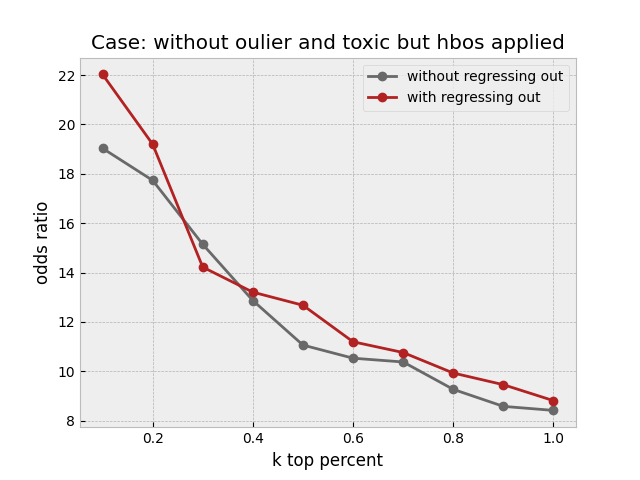
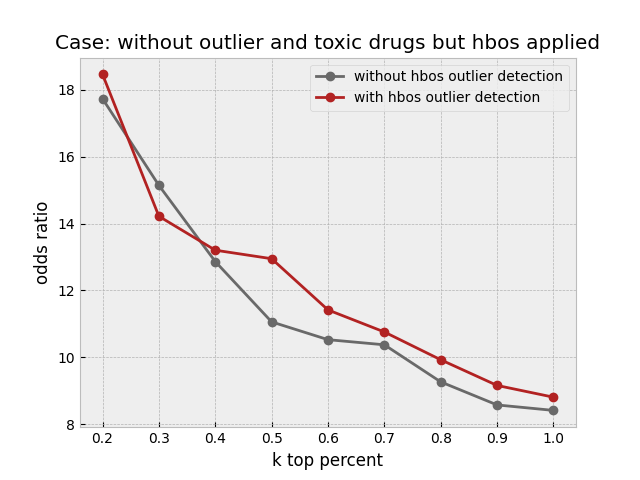
update plots

diff --git a/create_figure.py b/create_figure.py
@@ -1,6 +1,6 @@
 import matplotlib.pyplot as plt
 plt.style.use('bmh')
-k = [0.1,0.2,0.3,0.4,0.5,0.6, 0.7,0.8,0.9,1]
+k = [0.2,0.3,0.4,0.5,0.6, 0.7,0.8,0.9,1]
 
 simple = [8.637380350240969, 5.919063953102612, 4.719596794833262, 4.065512002301901, 3.6781240436003153, 3.290452155292344, 3.1658011431060067, 2.985483737084289, 2.8362326916350162, 2.6648148797080506, 1.9760097314088085, 1.7896712599610547, 1.6727411108446557, 1.6264975472333334]
 simple_regress = [9.409712612166645, 6.2860447818658, 5.019241750407726, 4.243313053954107, 3.6957863782693234, 3.3490154422750833, 3.115631587673701, 2.9197353899539635, 2.709845228887418, 2.629832706389391, 2.1301432158944413, 1.8819253679757508, 1.7861383899538412, 1.694735649352968]
@@ -12,24 +12,33 @@ remove_outlier_remove_toxic = [16.200728693235174, 13.5824911285034, 12.86676839
 remove_outlier_remove_toxic_regress = [22.028520357497516, 15.614109468937876, 13.312842712842713, 12.19348884144203, 11.060095399639188, 10.091030414566816, 9.620453237033548, 9.102458516349438, 9.01246491471051, 8.412760097919216, 6.466871619712499, 5.149076110709092, 4.487521022774029, 4.316097804073756]
 
 remove_outlier_remove_toxic_hbos = [19.03409573578057, 17.73440450660948, 15.142358159460665, 12.864679610446002, 11.060095399639188, 10.528130460104833, 10.3748425898164, 9.265801069662619, 8.576103746179028, 8.412760097919216, 6.399401142297976, 5.28659662093853, 4.80703631641932, 4.082853841734222]
-remove_outlier_remove_toxic_hbos_regress = [22.028520357497516, 19.199792093038365, 14.21844021259226, 13.204271406861157, 12.673919027124413, 11.193443616837, 10.758070694388287, 9.927180342553553, 9.454823416242958, 8.808000207003877, 6.73894695241979, 5.425330724423318, 4.699632259010011, 4.434667721637095]
+# remove_outlier_remove_toxic_hbos_regress = [22.028520357497516, 19.199792093038365, 14.21844021259226, 13.204271406861157, 12.673919027124413, 11.193443616837, 10.758070694388287, 9.927180342553553, 9.454823416242958, 8.808000207003877, 6.73894695241979, 5.425330724423318, 4.699632259010011, 4.434667721637095]
+
+remove_outlier_remove_toxic_hbos_regress = [20.510377506265666, 18.461777072692566, 14.21844021259226, 13.204271406861157, 12.94924157395062, 11.417827557320592, 10.758070694388287, 9.927180342553553, 9.159246706495098, 8.808000207003877, 6.73894695241979, 5.425330724423318, 4.843039864444453, 4.55456189193363]
+
+
 dae350200 = [1.985369469240437, 0.9755937755937756, 1.981955975158127, 1.9802590926919956, 2.189775165230631, 2.3279284361963555, 2.432225087837333, 3.173582295988935, 3.2878298909925414, 2.943687553746997, 3.3445043288471887, 3.1833131444441163, 3.160173913994807, 3.0939570060913857]
 mixup = [0.0, 2.486560008618832, 1.981955975158127, 1.4741914494175876, 1.9843701156611442, 1.9841298097411249, 1.840944546872784, 1.7313179009101518, 1.8764242853290183, 1.7852654103933316, 2.0656551849826865, 1.8143792670093564, 1.7184452844488332, 1.7996276305223873]
-# plt.plot(k,remove_outlier_remove_toxic[:-4], marker = 'o', label ='without regressing out', color = 'dimgray')
-# plt.plot(k,remove_outlier_remove_toxic_regress[:-4],marker = 'o' ,label ='with regressing out', color ='firebrick' )
+
+outlier_before_regress = [20.510377506265666, 18.461777072692566, 14.21844021259226, 13.204271406861157, 12.94924157395062, 11.417827557320592, 10.758070694388287, 9.927180342553553, 9.159246706495098, 8.808000207003877, 6.73894695241979, 5.425330724423318, 4.843039864444453, 4.55456189193363]
+outlier_005 = [23.590228896888938, 16.310768784340443, 15.142358159460665, 12.527760788311246, 11.85892841664706, 11.193443616837, 10.3748425898164, 10.094550195244155, 9.454823416242958, 8.940883651775305, 6.60246891279778, 5.28659662093853, 4.664031881611447, 4.37521844700198]
+outlier_02 = [22.028520357497516, 17.73440450660948, 15.142358159460665, 14.239350567465321, 12.40043588522354, 11.87056980003621, 10.758070694388287, 10.094550195244155, 9.454823416242958, 9.208372613424364, 6.945330327823232, 5.612220458048973, 4.9153524688386305, 4.6453633896260556]
+outlier_015 = [19.03409573578057, 17.01746860861166, 14.678079496261315, 14.239350567465321, 12.673919027124413, 11.643533195020748, 10.951215088219708, 10.094550195244155, 9.159246706495098, 8.808000207003877, 6.670597415129759, 5.471847416652611, 4.9153524688386305, 4.61501170941297]
+
+plt.plot(k,remove_outlier_remove_toxic_hbos[1:-4], marker = 'o', label ='without hbos outlier detection', color = 'dimgray')
+plt.plot(k,remove_outlier_remove_toxic_hbos_regress[1:-4],marker = 'o' ,label ='with hbos outlier detection', color ='firebrick' )
+plt.xlabel('k top percent')
+plt.ylabel('odds ratio')
+plt.legend()
+# plt.show()
+plt.title('Case: without outlier and toxic drugs but hbos applied')
+plt.savefig('figures/plots/remove_outlier_toxic_hbos_vs_remove_outlier_toxic_hbosregress.png')
+
+# plt.plot(k,mixup[:-4], marker = 'o', color = 'firebrick')
 # plt.xlabel('k top percent')
 # plt.ylabel('odds ratio')
 # # plt.title('title')
 # plt.legend()
-# # plt.show()
-# plt.title('Case: without oulier and toxic drugs')
-# plt.savefig('figures/plots/remove_outlier_toxic_vs_remove_outlier_toxicregress.png')
-
-plt.plot(k,mixup[:-4], marker = 'o', color = 'firebrick')
-plt.xlabel('k top percent')
-plt.ylabel('odds ratio')
-# plt.title('title')
-plt.legend()
 # plt.show()
-plt.title('Case : Mixup Technique')
-plt.savefig('figures/plots/mixup.png')
+# plt.title('Case : Mixup Technique')
+# plt.savefig('figures/plots/mixup.png')

diff --git a/final_find_representation.py b/final_find_representation.py
@@ -56,7 +56,15 @@ for f in files:
   data['plate'] = f
   data = data[data['Metadata_broad_sample'].isin(drugs)]
   data = data[data.columns.intersection(selected_cols)]
-  
+
+  ######### OUTLIER DETECTION
+  X = pd.read_csv('outlier_without_regress/'+f)
+  print(data.shape, X.shape)
+  data['outlier'] = list(X['outlier'])
+  data = data[data['outlier'] == 0]
+  del data['outlier']
+  #################
+
   ###### REGRESS OUT
   cell_area_col = list(data['Cells_AreaShape_Area'])
   cell_area = np.array(cell_area_col).reshape(-1,1)
@@ -72,13 +80,7 @@ for f in files:
 
   temp_l.append(len(data))
 
-  ######### OUTLIER DETECTION
-  X = pd.read_csv('outlier_without_regress/'+f)
-  print(data.shape, X.shape)
-  data['outlier'] = list(X['outlier'])
-  data = data[data['outlier'] == 0]
-  del data['outlier']
-  #################
+
 
   ##### aggregate on well, plate 
   data = data.groupby(['Metadata_Well','plate','Metadata_broad_sample']).agg(np.median)
